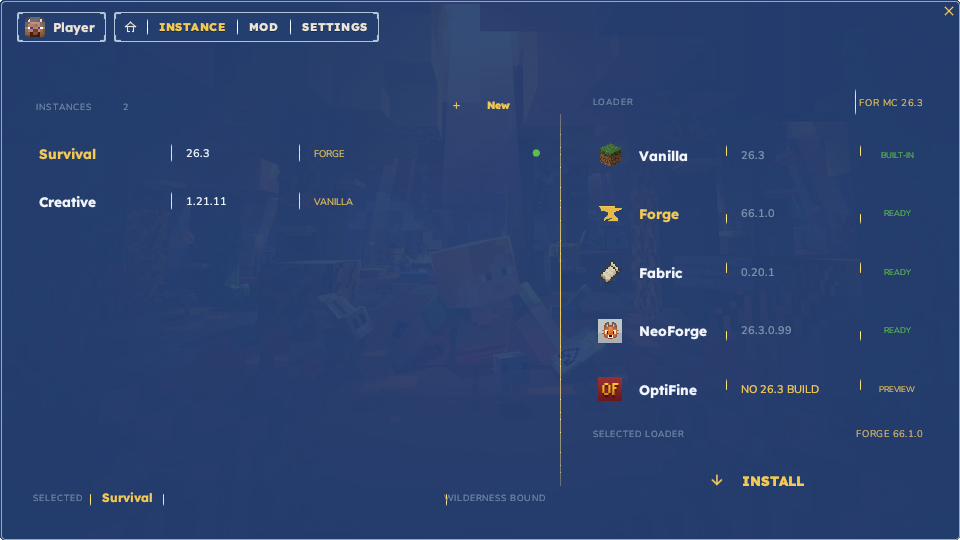
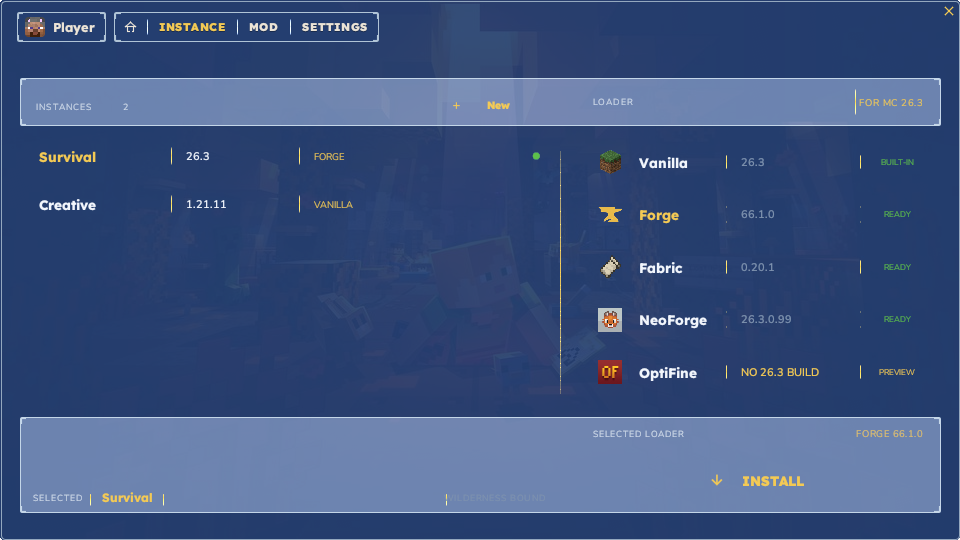
Release 0.2.12 with page elements inside the template.
Instance, Mods, and Settings keep the blue wash. Controls sit in the template; list rows stay outside it.

diff --git a/src/desktop.rs b/src/desktop.rs
@@ -1403,17 +1403,22 @@ impl Desktop {
     }
 
     fn paint_version_page(&mut self, ui: &mut egui::Ui, full: egui::Rect) {
-        let veil = drect(full, 26.0, 96.0, 1228.0, 608.0);
-        paint_gold_bar(ui.painter(), ux(full, 746.0), veil.top() + 16.0, veil.height() - 32.0);
+        let head = drect(full, 26.0, 104.0, 1228.0, 64.0);
+        let foot = drect(full, 26.0, 556.0, 1228.0, 128.0);
+        paint_template(ui.painter(), head);
+        paint_template(ui.painter(), foot);
+        let item_top = uy(full, 178.0);
+        let item_h = uy(full, 548.0) - item_top;
+        paint_gold_bar(ui.painter(), ux(full, 746.0), item_top, item_h);
         self.paint_version_list(ui, full);
         self.paint_loader_panel(ui, full);
     }
 
     fn paint_version_list(&mut self, ui: &mut egui::Ui, full: egui::Rect) {
-        paint_tracked(ui.painter(), egui::pos2(ux(full, 48.0), uy(full, 142.0)), egui::Align2::LEFT_CENTER, "INSTANCES", sub_font(us(full, 12.0)), V_MUTED, us(full, 1.2));
+        paint_tracked(ui.painter(), egui::pos2(ux(full, 48.0), uy(full, 142.0)), egui::Align2::LEFT_CENTER, "INSTANCES", sub_font(us(full, 12.0)), egui::Color32::from_rgb(214, 224, 236), us(full, 1.2));
         paint_gold_bar(ui.painter(), ux(full, 148.0), uy(full, 124.0), us(full, 36.0));
         let count = format!("{}", self.instances.len());
-        paint_tracked(ui.painter(), egui::pos2(ux(full, 164.0), uy(full, 142.0)), egui::Align2::LEFT_CENTER, &count, sub_font(us(full, 12.0)), V_MUTED, us(full, 1.0));
+        paint_tracked(ui.painter(), egui::pos2(ux(full, 164.0), uy(full, 142.0)), egui::Align2::LEFT_CENTER, &count, sub_font(us(full, 12.0)), egui::Color32::from_rgb(214, 224, 236), us(full, 1.0));
         paint_gold_bar(ui.painter(), ux(full, 572.0), uy(full, 124.0), us(full, 36.0));
         let new_btn = drect(full, 590.0, 118.0, 128.0, 44.0);
         if pill_action(ui, new_btn, "New", true) {
@@ -1427,7 +1432,7 @@ impl Desktop {
             self.draft_open = true;
         }
 
-        let list = drect(full, 28.0, 174.0, 715.0, 460.0);
+        let list = drect(full, 28.0, 178.0, 715.0, 368.0);
         let row_h = uy(full, 234.0) - uy(full, 174.0);
         let painter = ui.painter().clone();
         let rows: Vec<crate::instances::Instance> = self.instances.clone();
@@ -1474,7 +1479,7 @@ impl Desktop {
         let bar_h = foot.height() * 0.42;
         let bar_y = foot.center().y - bar_h * 0.5;
         paint_gold_bar(&painter, foot.left() + us(full, 92.0), bar_y, bar_h);
-        paint_tracked(&painter, egui::pos2(foot.left() + us(full, 16.0), foot.center().y), egui::Align2::LEFT_CENTER, "SELECTED", sub_font(us(full, 12.0)), V_MUTED, us(full, 1.2));
+        paint_tracked(&painter, egui::pos2(foot.left() + us(full, 16.0), foot.center().y), egui::Align2::LEFT_CENTER, "SELECTED", sub_font(us(full, 12.0)), egui::Color32::from_rgb(214, 224, 236), us(full, 1.2));
         let selected_name = self.current_instance().map(|i| i.name.clone()).unwrap_or_else(|| self.selected.clone());
         let name_font = title_font(us(full, 16.0));
         painter.text(egui::pos2(foot.left() + us(full, 108.0), foot.center().y), egui::Align2::LEFT_CENTER, &selected_name, name_font.clone(), GOLD);
@@ -1582,7 +1587,7 @@ impl Desktop {
     }
 
     fn paint_loader_panel(&mut self, ui: &mut egui::Ui, full: egui::Rect) {
-        paint_tracked(ui.painter(), egui::pos2(ux(full, 790.0), uy(full, 136.0)), egui::Align2::LEFT_CENTER, "LOADER", sub_font(us(full, 12.0)), V_MUTED, us(full, 1.3));
+        paint_tracked(ui.painter(), egui::pos2(ux(full, 790.0), uy(full, 136.0)), egui::Align2::LEFT_CENTER, "LOADER", sub_font(us(full, 12.0)), egui::Color32::from_rgb(214, 224, 236), us(full, 1.3));
         let for_mc = format!("FOR MC {}", self.selected);
         let for_font = sub_font(us(full, 13.0));
         let for_w = ui.painter().layout_no_wrap(for_mc.clone(), for_font, V_GOLD).size().x;
@@ -1593,8 +1598,8 @@ impl Desktop {
         let rows = crate::loaders::rows_for(&mc, &self.loaders);
         let mut clicked: Option<String> = None;
         for (i, row) in rows.iter().enumerate() {
-            let y = 168.0 + i as f32 * 78.0;
-            let rect = drect(full, 768.0, y, 483.0, 78.0);
+            let y = 182.0 + i as f32 * 70.0;
+            let rect = drect(full, 768.0, y, 483.0, 68.0);
             let on = self.loader_active(row.id);
             let hit = ui.interact(rect, egui::Id::new("loader-row").with(row.id), Sense::click());
             if hit.hovered() && !on && self.shot.is_none() {
@@ -1633,7 +1638,7 @@ impl Desktop {
         let primary = self.install_loader_id();
         let selected = rows.iter().find(|r| r.id == primary).cloned();
         let foot_y = uy(full, 578.0);
-        paint_tracked(ui.painter(), egui::pos2(ux(full, 790.0), foot_y), egui::Align2::LEFT_CENTER, "SELECTED LOADER", sub_font(us(full, 12.0)), V_MUTED, us(full, 1.1));
+        paint_tracked(ui.painter(), egui::pos2(ux(full, 790.0), foot_y), egui::Align2::LEFT_CENTER, "SELECTED LOADER", sub_font(us(full, 12.0)), egui::Color32::from_rgb(214, 224, 236), us(full, 1.1));
         if self.loader == "forge+optifine" {
             let ver = selected.as_ref().map(|r| r.version.as_str()).unwrap_or("");
             let right = if ver.is_empty() {
@@ -1739,6 +1744,9 @@ impl Desktop {
 
 
     fn page_mods(&mut self, ui: &mut egui::Ui) {
+        let frame_left = ui.max_rect().left();
+        let frame_right = ui.max_rect().right();
+        let frame_top = ui.cursor().min.y;
         ui.horizontal(|ui| {
             icon_label(ui, I_CUBE, 22.0, TEXT);
             ui.label(RichText::new("Mod").font(title_font(22.0)).color(TEXT));
@@ -1795,7 +1803,9 @@ impl Desktop {
             gold_slot(ui, 28.0);
             ui.label(RichText::new(format!("{} mods · {enabled} enabled", self.mods.len())).font(sub_font(13.0)).color(MUTED));
         });
-        ui.add_space(8.0);
+        let frame = egui::Rect::from_min_max(egui::pos2(frame_left, frame_top - 2.0), egui::pos2(frame_right, ui.cursor().min.y + 4.0));
+        paint_template(ui.painter(), frame);
+        ui.add_space(12.0);
         let list_h = ui.available_height().max(48.0);
         egui::ScrollArea::vertical()
             .max_height(list_h)
@@ -1827,18 +1837,21 @@ impl Desktop {
     }
 
     fn page_settings(&mut self, ui: &mut egui::Ui) {
-        ui.horizontal(|ui| {
-            icon_label(ui, I_FLARE, 22.0, TEXT);
-            ui.label(RichText::new("Settings").font(title_font(22.0)).color(TEXT));
-        });
-        ui.add_space(2.0);
         let width = ui.available_width();
         let body_h = ui.available_height();
+        let frame_left = ui.max_rect().left();
+        let frame_right = ui.max_rect().right();
         egui::ScrollArea::vertical()
             .max_height(body_h)
             .auto_shrink([false, false])
             .show(ui, |ui| {
         ui.set_min_width(width);
+        let frame_top = ui.cursor().min.y;
+        ui.horizontal(|ui| {
+            icon_label(ui, I_FLARE, 22.0, TEXT);
+            ui.label(RichText::new("Settings").font(title_font(22.0)).color(TEXT));
+        });
+        ui.add_space(6.0);
         ui.horizontal(|ui| {
             ui.vertical(|ui| {
                 ui.set_width((width - 40.0) * 0.52);
@@ -1980,23 +1993,6 @@ impl Desktop {
                             }
                         }
                     });
-                    let rows: Vec<(String, String, String)> = self.servers.iter().map(|s| (s.name.clone(), s.address.clone(), s.icon.clone())).collect();
-                    for (name, addr, icon) in rows {
-                        ui.horizontal(|ui| {
-                            let label = if name.is_empty() { addr.clone() } else { name.clone() };
-                            ui.label(RichText::new(label).font(body_font(13.0)).color(if icon.is_empty() { MUTED } else { TEXT }));
-                            gold_slot(ui, 28.0);
-                            if plain_action(ui, "Play", 48.0, 28.0, false) {
-                                self.join_server(name.clone(), addr.clone());
-                            }
-                            gold_slot(ui, 28.0);
-                            if plain_action(ui, "Icon", 44.0, 28.0, false) {
-                                if let Some(path) = crate::dialog::pick_file("Server icon", "*.png") {
-                                    self.set_server_icon(&addr, &path);
-                                }
-                            }
-                        });
-                    }
                     ui.add_space(2.0);
                     ui.horizontal(|ui| {
                         ui.label(RichText::new("Data").font(body_font(13.0)).color(TEXT));
@@ -2011,6 +2007,26 @@ impl Desktop {
                 });
             });
         });
+        let frame = egui::Rect::from_min_max(egui::pos2(frame_left, frame_top - 2.0), egui::pos2(frame_right, ui.cursor().min.y + 4.0));
+        paint_template(ui.painter(), frame);
+        ui.add_space(12.0);
+        let rows: Vec<(String, String, String)> = self.servers.iter().map(|s| (s.name.clone(), s.address.clone(), s.icon.clone())).collect();
+        for (name, addr, icon) in rows {
+            ui.horizontal(|ui| {
+                let label = if name.is_empty() { addr.clone() } else { name.clone() };
+                ui.label(RichText::new(label).font(body_font(13.0)).color(if icon.is_empty() { MUTED } else { TEXT }));
+                gold_slot(ui, 28.0);
+                if plain_action(ui, "Play", 48.0, 28.0, false) {
+                    self.join_server(name.clone(), addr.clone());
+                }
+                gold_slot(ui, 28.0);
+                if plain_action(ui, "Icon", 44.0, 28.0, false) {
+                    if let Some(path) = crate::dialog::pick_file("Server icon", "*.png") {
+                        self.set_server_icon(&addr, &path);
+                    }
+                }
+            });
+        }
         });
     }
 }
@@ -3104,6 +3120,13 @@ fn use_page_fonts(ui: &mut egui::Ui) {
 fn icon_label(ui: &mut egui::Ui, icon: char, size: f32, color: egui::Color32) {
     let (rect, _) = ui.allocate_exact_size(egui::vec2(size + 6.0, size + 4.0), Sense::hover());
     paint_material(ui.painter(), rect.center(), size, icon, color);
+}
+
+fn paint_template(painter: &egui::Painter, rect: egui::Rect) {
+    let edge = egui::Color32::from_rgb(196, 214, 232);
+    painter.rect_filled(rect, 1.5, egui::Color32::from_rgba_unmultiplied(255, 255, 255, 18));
+    painter.rect_stroke(rect, 1.5, egui::Stroke::new(1.0, edge), egui::StrokeKind::Inside);
+    paint_corner_caps(painter, rect, edge);
 }
 
 fn paint_hytale_bar(painter: &egui::Painter, rect: egui::Rect) {

diff --git a/README.md b/README.md
@@ -124,8 +124,8 @@ Linux sandbox: `apt install bubblewrap`. Without it, the client still gets a pri
 
 | Platform | File |
 | --- | --- |
-| Linux x86-64 | [rus-linux-x86_64](https://github.com/obsifox/rus/releases/download/0.2.11/rus-linux-x86_64) |
-| Windows x64 | [rus-windows-x64.exe](https://github.com/obsifox/rus/releases/download/0.2.11/rus-windows-x64.exe) |
+| Linux x86-64 | [rus-linux-x86_64](https://github.com/obsifox/rus/releases/download/0.2.12/rus-linux-x86_64) |
+| Windows x64 | [rus-windows-x64.exe](https://github.com/obsifox/rus/releases/download/0.2.12/rus-windows-x64.exe) |
 
 Linux:
 
